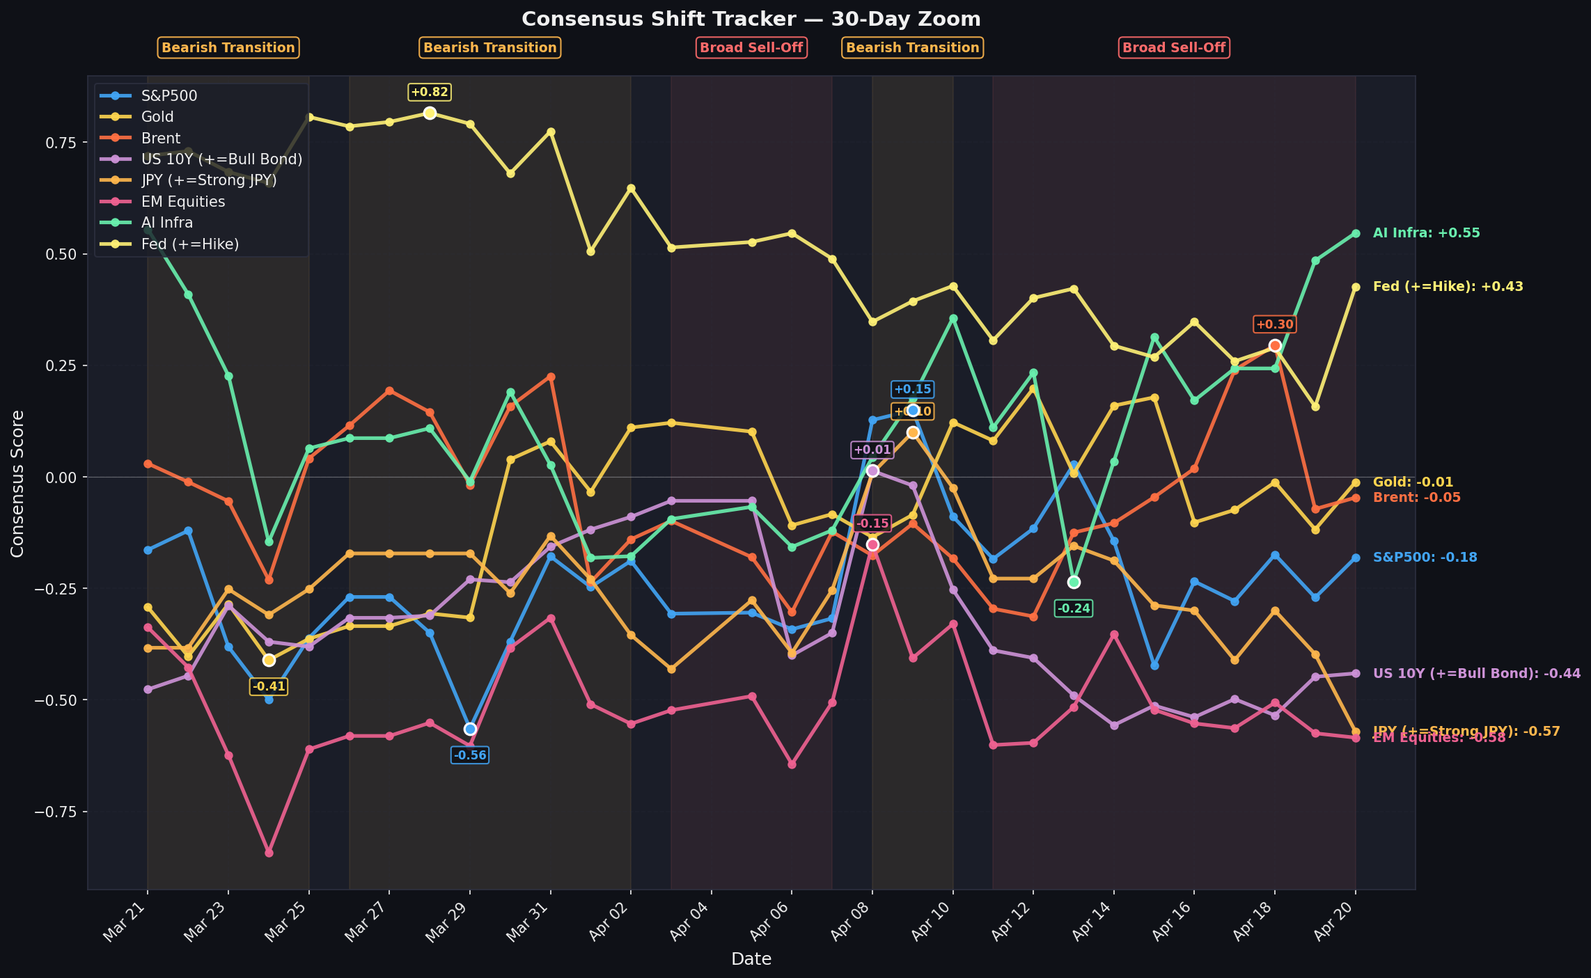
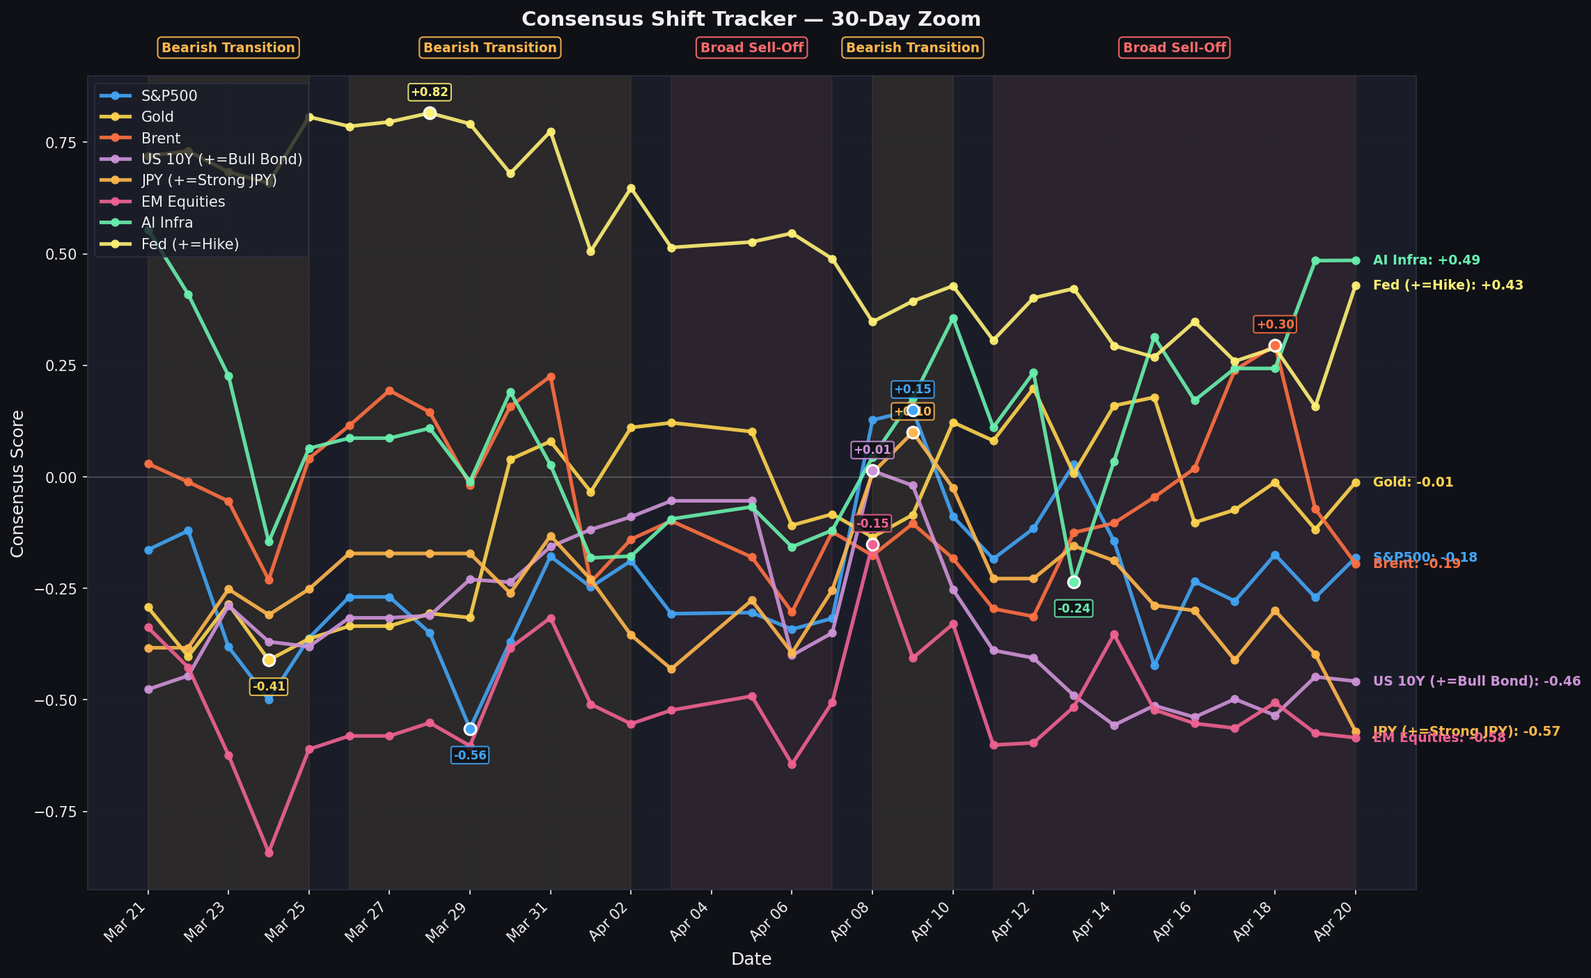
Daily update — 2026-04-21

diff --git a/index.html b/index.html
@@ -381,7 +381,7 @@
       </div>
       <div class="header-meta">
         <span>Apr 20, 2026</span>
-        <span>22 Assets · 28 Banks · 3,518 Calls · 59 Dates</span>
+        <span>22 Assets · 28 Banks · 3,537 Calls · 59 Dates</span>
       </div>
     </div>
     <div class="tab-bar">
@@ -424,12 +424,12 @@
             </div>
             <div class="stat-card">
               <p class="stat-label">Bearish Assets</p>
-              <p class="stat-value text-bear">15</p>
+              <p class="stat-value text-bear">16</p>
               <p class="stat-sub">of 22 tracked</p>
             </div>
             <div class="stat-card">
               <p class="stat-label">Deeply Bearish</p>
-              <p class="stat-value text-bear">4</p>
+              <p class="stat-value text-bear">5</p>
               <p class="stat-sub">score below −0.50</p>
             </div>
             <div class="stat-card">
@@ -439,7 +439,7 @@
             </div>
           </div>
           <p style="font-size:13px;color:var(--fg-muted);line-height:1.65;">
-            Of 22 canonical assets tracked across 28 banks and 3,518 directional calls over 59 trading dates (2026-02-03 – 2026-04-20), the consensus has turned overwhelmingly bearish. 5 assets remain positive — AI Infra, BoJ (+=Hike), ECB (+=Hike), Fed (+=Hike), RBA (+=Hike). 4 assets sit below −0.50, and 0 —  — have reached unanimous bearishness with zero bullish voices remaining.
+            Of 22 canonical assets tracked across 28 banks and 3,537 directional calls over 59 trading dates (2026-02-03 – 2026-04-20), the consensus has turned overwhelmingly bearish. 5 assets remain positive — AI Infra, BoJ (+=Hike), ECB (+=Hike), Fed (+=Hike), RBA (+=Hike). 5 assets sit below −0.50, and 0 —  — have reached unanimous bearishness with zero bullish voices remaining.
           </p>
         </section>
 
@@ -448,7 +448,7 @@
           <div id="todays-changes" style="scroll-margin-top:72px;"></div>
           <h2 class="section-heading">1b. Today's Changes (2026-04-19 → 2026-04-20)</h2>
           <div class="signal-card" style="border-color:var(--bear);"><div class="signal-body"><div class="signal-header"><span class="signal-asset">Copper</span><span style="font-family:'JetBrains Mono',monospace;font-size:10px;font-weight:700;color:var(--bg);background:var(--bear);padding:2px 8px;">BULL → BEAR</span><span class="mono" style="font-size:12px;color:var(--bear);font-weight:700;">+0.03 → -0.22</span></div><p class="signal-note">New calls: ANZ (bear), Barclays (bear), JPM (bear)</p></div></div>
-          <div class="table-wrap" style="margin-top:16px;"><table><thead><tr><th>Asset</th><th>Previous</th><th>Current</th><th>Change</th><th>B/Be</th><th>New Calls</th></tr></thead><tbody><tr><td style="font-weight:600;">S&P500</td><td class="mono" style="color:var(--fg-muted);">-0.27</td><td class="mono" style="color:var(--bull);font-weight:700;">-0.18</td><td class="mono" style="color:var(--bull);font-weight:700;">+0.09</td><td class="mono-sm">5B/11Be</td><td style="font-size:11px;color:var(--fg-muted);">BofA (bear), GS (bear), JPM (bear), MS (bear) +2 more</td></tr><tr><td style="font-weight:600;">RBA (+=Hike)</td><td class="mono" style="color:var(--fg-muted);">+0.54</td><td class="mono" style="color:var(--bull);font-weight:700;">+0.65</td><td class="mono" style="color:var(--bull);font-weight:700;">+0.11</td><td class="mono-sm">12B/2Be</td><td style="font-size:11px;color:var(--fg-muted);">ANZ (bull), MUFG (bull)</td></tr><tr><td style="font-weight:600;">Nasdaq</td><td class="mono" style="color:var(--fg-muted);">-0.42</td><td class="mono" style="color:var(--bull);font-weight:700;">-0.36</td><td class="mono" style="color:var(--bull);font-weight:700;">+0.06</td><td class="mono-sm">2B/9Be</td><td style="font-size:11px;color:var(--fg-muted);">DB (bull), GS (bear), JPM (bull)</td></tr><tr><td style="font-weight:600;">Korea</td><td class="mono" style="color:var(--fg-muted);">-0.42</td><td class="mono" style="color:var(--bull);font-weight:700;">-0.32</td><td class="mono" style="color:var(--bull);font-weight:700;">+0.10</td><td class="mono-sm">5B/9Be</td><td style="font-size:11px;color:var(--fg-muted);">GS (bull), JPM (bull), MUFG (bull)</td></tr><tr><td style="font-weight:600;">Japan</td><td class="mono" style="color:var(--fg-muted);">-0.55</td><td class="mono" style="color:var(--bull);font-weight:700;">-0.49</td><td class="mono" style="color:var(--bull);font-weight:700;">+0.06</td><td class="mono-sm">2B/15Be</td><td style="font-size:11px;color:var(--fg-muted);">GS (bear), JPM (bear), MUFG (bear)</td></tr><tr><td style="font-weight:600;">JPY (+=Strong JPY)</td><td class="mono" style="color:var(--fg-muted);">-0.40</td><td class="mono" style="color:var(--bear);font-weight:700;">-0.57</td><td class="mono" style="color:var(--bear);font-weight:700;">-0.17</td><td class="mono-sm">3B/12Be</td><td style="font-size:11px;color:var(--fg-muted);">JPM (bear), MUFG (bear)</td></tr><tr><td style="font-weight:600;">India</td><td class="mono" style="color:var(--fg-muted);">-0.31</td><td class="mono" style="color:var(--bull);font-weight:700;">-0.13</td><td class="mono" style="color:var(--bull);font-weight:700;">+0.18</td><td class="mono-sm">5B/11Be</td><td style="font-size:11px;color:var(--fg-muted);">BofA (bull), GS (bear), MUFG (bull), TSLombard (bear)</td></tr><tr><td style="font-weight:600;">Gold</td><td class="mono" style="color:var(--fg-muted);">-0.12</td><td class="mono" style="color:var(--bull);font-weight:700;">-0.01</td><td class="mono" style="color:var(--bull);font-weight:700;">+0.11</td><td class="mono-sm">9B/8Be</td><td style="font-size:11px;color:var(--fg-muted);">ANZ (bear), BofA (bear), GS (bear), MUFG (bear) +1 more</td></tr><tr><td style="font-weight:600;">Fed (+=Hike)</td><td class="mono" style="color:var(--fg-muted);">+0.16</td><td class="mono" style="color:var(--bull);font-weight:700;">+0.43</td><td class="mono" style="color:var(--bull);font-weight:700;">+0.27</td><td class="mono-sm">17B/5Be</td><td style="font-size:11px;color:var(--fg-muted);">ANZ (bull), BofA (bull), Citi (bull), DB (bull) +6 more</td></tr><tr><td style="font-weight:600;">EUR/USD (+=Long EUR)</td><td class="mono" style="color:var(--fg-muted);">-0.36</td><td class="mono" style="color:var(--bull);font-weight:700;">-0.20</td><td class="mono" style="color:var(--bull);font-weight:700;">+0.16</td><td class="mono-sm">7B/15Be</td><td style="font-size:11px;color:var(--fg-muted);">Barclays (bear), Citi (bear), DB (bull), JPM (bear) +1 more</td></tr><tr><td style="font-weight:600;">Credit IG</td><td class="mono" style="color:var(--fg-muted);">-0.47</td><td class="mono" style="color:var(--bull);font-weight:700;">-0.40</td><td class="mono" style="color:var(--bull);font-weight:700;">+0.07</td><td class="mono-sm">1B/1Be</td><td style="font-size:11px;color:var(--fg-muted);">-</td></tr><tr><td style="font-weight:600;">Credit HY</td><td class="mono" style="color:var(--fg-muted);">-0.41</td><td class="mono" style="color:var(--bull);font-weight:700;">-0.24</td><td class="mono" style="color:var(--bull);font-weight:700;">+0.18</td><td class="mono-sm">2B/6Be</td><td style="font-size:11px;color:var(--fg-muted);">JPM (bear), TSLombard (bull)</td></tr><tr><td style="font-weight:600;">Copper</td><td class="mono" style="color:var(--fg-muted);">+0.03</td><td class="mono" style="color:var(--bear);font-weight:700;">-0.22</td><td class="mono" style="color:var(--bear);font-weight:700;">-0.25</td><td class="mono-sm">3B/9Be</td><td style="font-size:11px;color:var(--fg-muted);">ANZ (bear), Barclays (bear), JPM (bear)</td></tr><tr><td style="font-weight:600;">China</td><td class="mono" style="color:var(--fg-muted);">-0.24</td><td class="mono" style="color:var(--bear);font-weight:700;">-0.29</td><td class="mono" style="color:var(--bear);font-weight:700;">-0.05</td><td class="mono-sm">6B/15Be</td><td style="font-size:11px;color:var(--fg-muted);">ANZ (bear), BofA (bull), JPM (bear), MUFG (bull) +1 more</td></tr><tr><td style="font-weight:600;">AI Infra</td><td class="mono" style="color:var(--fg-muted);">+0.48</td><td class="mono" style="color:var(--bull);font-weight:700;">+0.55</td><td class="mono" style="color:var(--bull);font-weight:700;">+0.06</td><td class="mono-sm">11B/3Be</td><td style="font-size:11px;color:var(--fg-muted);">BofA (bull), CBOE (bull), GS (bear), JPM (bear) +3 more</td></tr></tbody></table></div>
+          <div class="table-wrap" style="margin-top:16px;"><table><thead><tr><th>Asset</th><th>Previous</th><th>Current</th><th>Change</th><th>B/Be</th><th>New Calls</th></tr></thead><tbody><tr><td style="font-weight:600;">US 2Y (+=Bull Bond)</td><td class="mono" style="color:var(--fg-muted);">-0.52</td><td class="mono" style="color:var(--bear);font-weight:700;">-0.58</td><td class="mono" style="color:var(--bear);font-weight:700;">-0.06</td><td class="mono-sm">3B/14Be</td><td style="font-size:11px;color:var(--fg-muted);">BofA (bear), JPM (bear), MUFG (bear), Mizuho (bear) +1 more</td></tr><tr><td style="font-weight:600;">S&P500</td><td class="mono" style="color:var(--fg-muted);">-0.27</td><td class="mono" style="color:var(--bull);font-weight:700;">-0.18</td><td class="mono" style="color:var(--bull);font-weight:700;">+0.09</td><td class="mono-sm">5B/11Be</td><td style="font-size:11px;color:var(--fg-muted);">BofA (bear), GS (bear), JPM (bear), MS (bear) +3 more</td></tr><tr><td style="font-weight:600;">RBA (+=Hike)</td><td class="mono" style="color:var(--fg-muted);">+0.54</td><td class="mono" style="color:var(--bull);font-weight:700;">+0.65</td><td class="mono" style="color:var(--bull);font-weight:700;">+0.11</td><td class="mono-sm">12B/2Be</td><td style="font-size:11px;color:var(--fg-muted);">ANZ (bull), MUFG (bull)</td></tr><tr><td style="font-weight:600;">Nasdaq</td><td class="mono" style="color:var(--fg-muted);">-0.42</td><td class="mono" style="color:var(--bull);font-weight:700;">-0.22</td><td class="mono" style="color:var(--bull);font-weight:700;">+0.20</td><td class="mono-sm">3B/8Be</td><td style="font-size:11px;color:var(--fg-muted);">DB (bull), GS (bear), JPM (bull), TME (bull)</td></tr><tr><td style="font-weight:600;">Korea</td><td class="mono" style="color:var(--fg-muted);">-0.42</td><td class="mono" style="color:var(--bull);font-weight:700;">-0.32</td><td class="mono" style="color:var(--bull);font-weight:700;">+0.10</td><td class="mono-sm">5B/9Be</td><td style="font-size:11px;color:var(--fg-muted);">GS (bull), JPM (bull), MUFG (bull)</td></tr><tr><td style="font-weight:600;">JPY (+=Strong JPY)</td><td class="mono" style="color:var(--fg-muted);">-0.40</td><td class="mono" style="color:var(--bear);font-weight:700;">-0.57</td><td class="mono" style="color:var(--bear);font-weight:700;">-0.17</td><td class="mono-sm">3B/12Be</td><td style="font-size:11px;color:var(--fg-muted);">JPM (bear), MUFG (bear), Mizuho (bear)</td></tr><tr><td style="font-weight:600;">India</td><td class="mono" style="color:var(--fg-muted);">-0.31</td><td class="mono" style="color:var(--bull);font-weight:700;">-0.13</td><td class="mono" style="color:var(--bull);font-weight:700;">+0.18</td><td class="mono-sm">5B/11Be</td><td style="font-size:11px;color:var(--fg-muted);">BofA (bull), GS (bear), MUFG (bull), TSLombard (bear)</td></tr><tr><td style="font-weight:600;">Gold</td><td class="mono" style="color:var(--fg-muted);">-0.12</td><td class="mono" style="color:var(--bull);font-weight:700;">-0.01</td><td class="mono" style="color:var(--bull);font-weight:700;">+0.11</td><td class="mono-sm">9B/8Be</td><td style="font-size:11px;color:var(--fg-muted);">ANZ (bear), BofA (bear), GS (bear), MUFG (bear) +1 more</td></tr><tr><td style="font-weight:600;">Fed (+=Hike)</td><td class="mono" style="color:var(--fg-muted);">+0.16</td><td class="mono" style="color:var(--bull);font-weight:700;">+0.43</td><td class="mono" style="color:var(--bull);font-weight:700;">+0.27</td><td class="mono-sm">17B/5Be</td><td style="font-size:11px;color:var(--fg-muted);">ANZ (bull), BofA (bull), Citi (bull), DB (bull) +6 more</td></tr><tr><td style="font-weight:600;">EUR/USD (+=Long EUR)</td><td class="mono" style="color:var(--fg-muted);">-0.36</td><td class="mono" style="color:var(--bull);font-weight:700;">-0.24</td><td class="mono" style="color:var(--bull);font-weight:700;">+0.11</td><td class="mono-sm">6B/16Be</td><td style="font-size:11px;color:var(--fg-muted);">Barclays (bear), Citi (bear), DB (bull), ING (bear) +4 more</td></tr><tr><td style="font-weight:600;">Credit IG</td><td class="mono" style="color:var(--fg-muted);">-0.47</td><td class="mono" style="color:var(--bull);font-weight:700;">-0.40</td><td class="mono" style="color:var(--bull);font-weight:700;">+0.07</td><td class="mono-sm">1B/1Be</td><td style="font-size:11px;color:var(--fg-muted);">-</td></tr><tr><td style="font-weight:600;">Credit HY</td><td class="mono" style="color:var(--fg-muted);">-0.41</td><td class="mono" style="color:var(--bull);font-weight:700;">-0.24</td><td class="mono" style="color:var(--bull);font-weight:700;">+0.18</td><td class="mono-sm">2B/6Be</td><td style="font-size:11px;color:var(--fg-muted);">JPM (bear), TSLombard (bull)</td></tr><tr><td style="font-weight:600;">Copper</td><td class="mono" style="color:var(--fg-muted);">+0.03</td><td class="mono" style="color:var(--bear);font-weight:700;">-0.22</td><td class="mono" style="color:var(--bear);font-weight:700;">-0.25</td><td class="mono-sm">3B/9Be</td><td style="font-size:11px;color:var(--fg-muted);">ANZ (bear), Barclays (bear), JPM (bear)</td></tr><tr><td style="font-weight:600;">China</td><td class="mono" style="color:var(--fg-muted);">-0.24</td><td class="mono" style="color:var(--bear);font-weight:700;">-0.29</td><td class="mono" style="color:var(--bear);font-weight:700;">-0.05</td><td class="mono-sm">6B/15Be</td><td style="font-size:11px;color:var(--fg-muted);">ANZ (bear), BofA (bull), JPM (bear), MUFG (bull) +1 more</td></tr><tr><td style="font-weight:600;">Brent</td><td class="mono" style="color:var(--fg-muted);">-0.07</td><td class="mono" style="color:var(--bear);font-weight:700;">-0.19</td><td class="mono" style="color:var(--bear);font-weight:700;">-0.12</td><td class="mono-sm">8B/15Be</td><td style="font-size:11px;color:var(--fg-muted);">ANZ (bear), BofA (bull), Citi (bull), DB (bear) +9 more</td></tr></tbody></table></div>
         </section>
 
         <!-- 2. Regime Narrative -->
@@ -493,7 +493,7 @@
               </div>
               <div class="act-body">
                 <p class="act-title">Broad Sell-Off</p>
-                <p class="act-text">Average consensus moved from -0.12 to -0.12. 5 assets positive, 15 negative at phase end. Key moves: Nasdaq -0.42, JPY (+=Strong JPY) -0.34, USD -0.34, Japan -0.19.</p>
+                <p class="act-text">Average consensus moved from -0.12 to -0.13. 5 assets positive, 16 negative at phase end. Key moves: JPY (+=Strong JPY) -0.34, USD -0.34, Nasdaq -0.28, Japan -0.23.</p>
               </div>
             </div>
           </div>
@@ -608,7 +608,7 @@
           <div class="dq-box">
             <p class="dq-label">Data Quality &amp; Methodology</p>
             <div class="dq-grid">
-              <div><span class="dq-key">Source: </span>bank_conviction.csv — 3,518 directional calls from 28 banks</div>
+              <div><span class="dq-key">Source: </span>bank_conviction.csv — 3,537 directional calls from 28 banks</div>
               <div><span class="dq-key">Consensus: </span>consensus_timeseries.csv — 1048 rows</div>
               <div><span class="dq-key">Method: </span>Per-date average of each bank's latest score (14-day lookback, min 2 banks)</div>
               <div><span class="dq-key">Coverage: </span>59 dates × 22 assets</div>
@@ -630,20 +630,20 @@
     <div class="chart-section">
       <p class="chart-title">Consensus Shift Tracker — 30-Day Zoom</p>
       <p class="chart-subtitle">Mar 21 – Apr 20, 2026 · 8 Key Assets</p>
-      <img class="chart-img" src="img/chart_30d_zoom.png?v=1776736844" alt="30-Day Zoom chart" />
-      <p class="chart-caption">Tracks the consensus score trajectory for 8 key assets over the final 30 trading days. 4 regime phases detected: Bullish Consensus (2026-02-20 – 2026-03-19), Bearish Transition (2026-03-20 – 2026-04-02), Broad Sell-Off (2026-04-03 – 2026-04-10), Broad Sell-Off (2026-04-11 – 2026-04-20). EM Equities ended at −0.58, the sharpest decline. BoJ (+=Hike) at +0.72 is the strongest positive. Gold at -0.01 is closest to the inflection point.</p>
+      <img class="chart-img" src="img/chart_30d_zoom.png?v=1776737487" alt="30-Day Zoom chart" />
+      <p class="chart-caption">Tracks the consensus score trajectory for 8 key assets over the final 30 trading days. 4 regime phases detected: Bullish Consensus (2026-02-20 – 2026-03-19), Bearish Transition (2026-03-20 – 2026-04-02), Broad Sell-Off (2026-04-03 – 2026-04-10), Broad Sell-Off (2026-04-11 – 2026-04-20). EM Equities ended at −0.58, the sharpest decline. BoJ (+=Hike) at +0.70 is the strongest positive. Gold at -0.01 is closest to the inflection point.</p>
     </div>
     <div class="chart-section">
       <p class="chart-title">Bank Leadership by Macro Theme</p>
       <p class="chart-subtitle">★ = first to call/flip · ✓ = followed later · dates = first publication</p>
-      <img class="chart-img" src="img/chart_bank_leadership.png?v=1776736844" alt="Bank Leadership chart" />
+      <img class="chart-img" src="img/chart_bank_leadership.png?v=1776737487" alt="Bank Leadership chart" />
       <p class="chart-caption">Maps which banks led versus followed across 44 macro themes. Gold cells indicate leading calls (★); blue cells indicate supporting calls (✓); dark cells indicate absence. JPM, GS, BofA show the densest leading coverage. Late arrivals — RBC, Curvature, Barclays, Jefferies — are concentrated in the bottom rows.</p>
     </div>
     <div class="chart-section">
       <p class="chart-title">Bank × Asset Conviction Map</p>
       <p class="chart-subtitle">Green = Bull · Red = Bear · Gold border = contrarian · ▲Bull ▼Bear · No data = dark</p>
-      <img class="chart-img" src="img/chart_bank_asset_heatmap.png?v=1776736844" alt="Bank Asset Conviction Heatmap" />
-      <p class="chart-caption">Shows each bank's current directional conviction score (−1.0 to +1.0) for every tracked asset. Gold borders highlight contrarian positions. S&P500: -0.18. Nasdaq: -0.36. EM Equities: -0.58. Fed (+=Hike): +0.43. USD: -0.57. BoJ (+=Hike) at +0.72 is the strongest positive.</p>
+      <img class="chart-img" src="img/chart_bank_asset_heatmap.png?v=1776737487" alt="Bank Asset Conviction Heatmap" />
+      <p class="chart-caption">Shows each bank's current directional conviction score (−1.0 to +1.0) for every tracked asset. Gold borders highlight contrarian positions. S&P500: -0.18. Nasdaq: -0.22. EM Equities: -0.58. Fed (+=Hike): +0.43. USD: -0.57. BoJ (+=Hike) at +0.70 is the strongest positive.</p>
     </div>
   </div>
 </div>
@@ -742,7 +742,7 @@
 const CONSENSUS = [
   {
     "asset": "BoJ (+=Hike)",
-    "score": 0.72,
+    "score": 0.7,
     "bull": 11,
     "bear": 1,
     "signal": ""
@@ -755,16 +755,16 @@ const CONSENSUS = [
     "signal": ""
   },
   {
-    "asset": "AI Infra",
-    "score": 0.55,
-    "bull": 11,
+    "asset": "ECB (+=Hike)",
+    "score": 0.54,
+    "bull": 15,
     "bear": 3,
     "signal": ""
   },
   {
-    "asset": "ECB (+=Hike)",
-    "score": 0.54,
-    "bull": 14,
+    "asset": "AI Infra",
+    "score": 0.49,
+    "bull": 11,
     "bear": 3,
     "signal": ""
   },
@@ -783,13 +783,6 @@ const CONSENSUS = [
     "signal": "Split — high disagreement"
   },
   {
-    "asset": "Brent",
-    "score": -0.05,
-    "bull": 10,
-    "bear": 13,
-    "signal": "Split — high disagreement"
-  },
-  {
     "asset": "India",
     "score": -0.13,
     "bull": 5,
@@ -804,9 +797,9 @@ const CONSENSUS = [
     "signal": "Split — high disagreement"
   },
   {
-    "asset": "EUR/USD (+=Long EUR)",
-    "score": -0.2,
-    "bull": 7,
+    "asset": "Brent",
+    "score": -0.19,
+    "bull": 8,
     "bear": 15,
     "signal": "Split — high disagreement"
   },
@@ -818,11 +811,25 @@ const CONSENSUS = [
     "signal": ""
   },
   {
+    "asset": "Nasdaq",
+    "score": -0.22,
+    "bull": 3,
+    "bear": 8,
+    "signal": "Split — high disagreement"
+  },
+  {
     "asset": "Credit HY",
     "score": -0.24,
     "bull": 2,
     "bear": 6,
     "signal": ""
+  },
+  {
+    "asset": "EUR/USD (+=Long EUR)",
+    "score": -0.24,
+    "bull": 6,
+    "bear": 16,
+    "signal": "Split — high disagreement"
   },
   {
     "asset": "China",
@@ -839,13 +846,6 @@ const CONSENSUS = [
     "signal": "Split — high disagreement"
   },
   {
-    "asset": "Nasdaq",
-    "score": -0.36,
-    "bull": 2,
-    "bear": 9,
-    "signal": ""
-  },
-  {
     "asset": "Credit IG",
     "score": -0.4,
     "bull": 1,
@@ -854,23 +854,16 @@ const CONSENSUS = [
   },
   {
     "asset": "US 10Y (+=Bull Bond)",
-    "score": -0.44,
+    "score": -0.46,
     "bull": 3,
     "bear": 16,
     "signal": ""
   },
   {
     "asset": "Japan",
-    "score": -0.49,
+    "score": -0.53,
     "bull": 2,
     "bear": 15,
-    "signal": ""
-  },
-  {
-    "asset": "US 2Y (+=Bull Bond)",
-    "score": -0.54,
-    "bull": 3,
-    "bear": 13,
     "signal": ""
   },
   {
@@ -883,6 +876,13 @@ const CONSENSUS = [
   {
     "asset": "USD",
     "score": -0.57,
+    "bull": 3,
+    "bear": 14,
+    "signal": ""
+  },
+  {
+    "asset": "US 2Y (+=Bull Bond)",
+    "score": -0.58,
     "bull": 3,
     "bear": 14,
     "signal": ""
@@ -933,15 +933,23 @@ const MOVERS = [
     "asset": "US 10Y (+=Bull Bond)",
     "peak": 0.68,
     "peakDate": "2026-02-24",
-    "current": -0.44,
-    "drop": -1.12,
+    "current": -0.46,
+    "drop": -1.14,
     "status": "Complete reversal"
   },
   {
     "asset": "Japan",
     "peak": 0.6,
     "peakDate": "2026-02-24",
-    "current": -0.49,
+    "current": -0.53,
+    "drop": -1.13,
+    "status": "Complete reversal"
+  },
+  {
+    "asset": "Brent",
+    "peak": 0.9,
+    "peakDate": "2026-03-13",
+    "current": -0.19,
     "drop": -1.09,
     "status": "Complete reversal"
   },
@@ -949,8 +957,8 @@ const MOVERS = [
     "asset": "EUR/USD (+=Long EUR)",
     "peak": 0.83,
     "peakDate": "2026-03-14",
-    "current": -0.2,
-    "drop": -1.03,
+    "current": -0.24,
+    "drop": -1.07,
     "status": "Complete reversal"
   },
   {
@@ -967,14 +975,6 @@ const MOVERS = [
     "peakDate": "2026-02-26",
     "current": -0.18,
     "drop": -1.01,
-    "status": "Complete reversal"
-  },
-  {
-    "asset": "Brent",
-    "peak": 0.9,
-    "peakDate": "2026-03-13",
-    "current": -0.05,
-    "drop": -0.95,
     "status": "Complete reversal"
   }
 ];
@@ -998,11 +998,11 @@ const FADE_SIGNALS = [
   },
   {
     "n": 3,
-    "asset": "Brent",
-    "score": -0.05,
-    "bb": "10B vs 13Be",
+    "asset": "Korea",
+    "score": -0.32,
+    "bb": "5B vs 9Be",
     "type": "disagreement",
-    "note": "High disagreement — 10 banks going against the prevailing direction. Watch for the minority to either capitulate or convert others."
+    "note": "High disagreement — 5 banks going against the prevailing direction. Watch for the minority to either capitulate or convert others."
   }
 ];
 
@@ -1012,12 +1012,6 @@ const INFLECTION = [
     "score": -0.01,
     "bb": "9B / 8Be",
     "note": "Split 9B/8Be — genuinely contested, one flip tips the balance"
-  },
-  {
-    "asset": "Brent",
-    "score": -0.05,
-    "bb": "10B / 13Be",
-    "note": "Split 10B/13Be — genuinely contested, one flip tips the balance"
   },
   {
     "asset": "India",
@@ -1032,10 +1026,16 @@ const INFLECTION = [
     "note": "5 bulls hold the minority — watch for capitulation or conversion"
   },
   {
-    "asset": "EUR/USD (+=Long EUR)",
-    "score": -0.2,
-    "bb": "7B / 15Be",
-    "note": "7 bulls hold the minority — watch for capitulation or conversion"
+    "asset": "Brent",
+    "score": -0.19,
+    "bb": "8B / 15Be",
+    "note": "8 bulls hold the minority — watch for capitulation or conversion"
+  },
+  {
+    "asset": "Copper",
+    "score": -0.22,
+    "bb": "3B / 9Be",
+    "note": "Leaning bearish (3B/9Be) but score near zero — thin coverage amplifies moves"
   }
 ];
 
@@ -1045,12 +1045,12 @@ const CATALYSTS = [
     "target": "Gold direction"
   },
   {
-    "trigger": "Energy supply/demand data",
-    "target": "Brent direction"
-  },
-  {
     "trigger": "India GDP and monsoon outlook",
     "target": "India direction"
+  },
+  {
+    "trigger": "US earnings and ISM data",
+    "target": "S&P500 direction"
   },
   {
     "trigger": "Credit spread movements",
